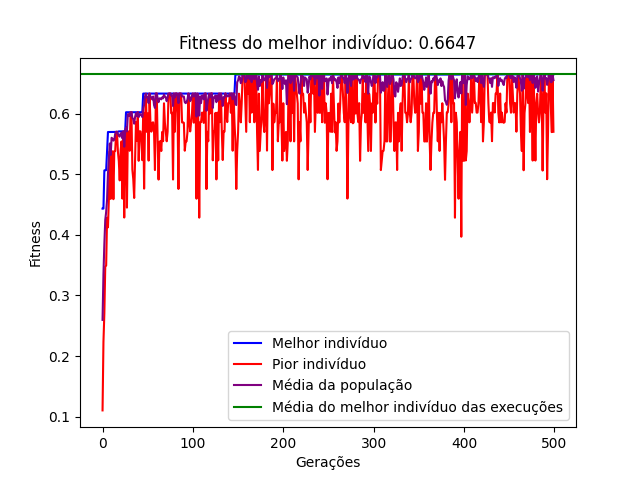
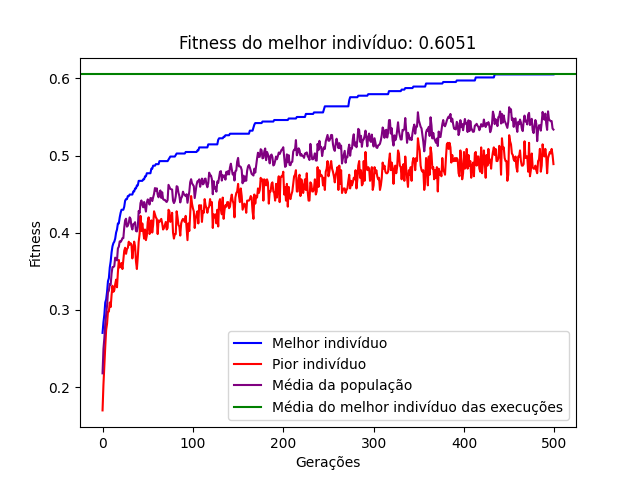
labirinto

diff --git a/labirinto/lab.py b/labirinto/lab.py
@@ -1,0 +1,50 @@
+import pygame
+
+
+def generateMaze():
+    with open('labirinto.txt', 'r') as f:
+        lines = f.readlines()
+
+    lines = [x.strip() for x in lines] 
+
+    maze = []
+    i = 0
+    for line in lines:
+        maze.append([])
+        for cell in line:
+            maze[i].append(int(cell))
+        i+=1
+
+    return maze
+
+def main():
+
+    maze = generateMaze()
+    size = 25
+    height = 30
+    width = 25
+    white,black,red = (255,255,255),(0,0,0),(255,0,0)
+    gameDisplay = pygame.display.set_mode((700,800))
+    pygame.display.set_caption("Labirinto")
+    gameDisplay.fill(white)
+    end = False
+
+    while not end:
+        for event in pygame.event.get():
+            if event.type == pygame.QUIT:
+                end = True
+
+        for i in range(1,height+1):
+            for j in range(1,width+1):
+                if maze[i-1][j-1] == 1:
+                    pygame.draw.rect(gameDisplay, black, [size*j,size*i,size,size])
+                else:
+                    pygame.draw.rect(gameDisplay,black,[size*j,size*i,size,size],1)
+        pygame.display.update()
+
+    pygame.quit()
+    quit()
+
+
+if __name__ == "__main__":
+    main()

diff --git a/n_rainhas_lucro/entrada.py b/n_rainhas_lucro/entrada.py
@@ -3,7 +3,7 @@
 
 TIPO_CODIFICACAO = 'INT-PERM'        # BIN, INT, INT-PERM, REAL
 POP=10                        # Tamanho da população
-DIM=8                        # Dimensão, tamanho do cromossomo, L
+DIM=64                        # Dimensão, tamanho do cromossomo, L
 L=DIM
 RUN=5                         # Número de execuções
 GEN=500                           # Número de iterações (gerações)
